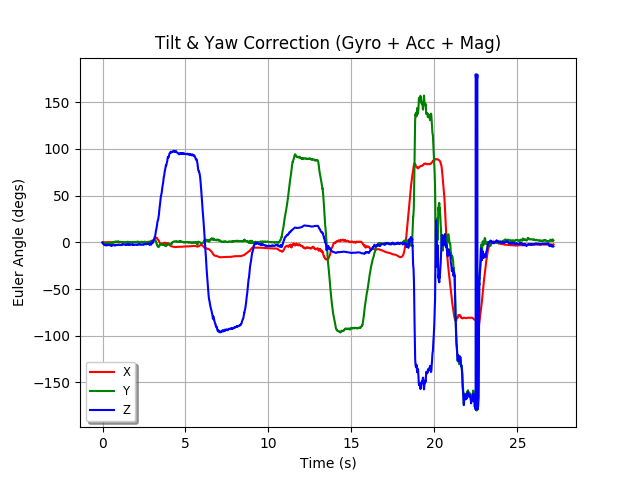
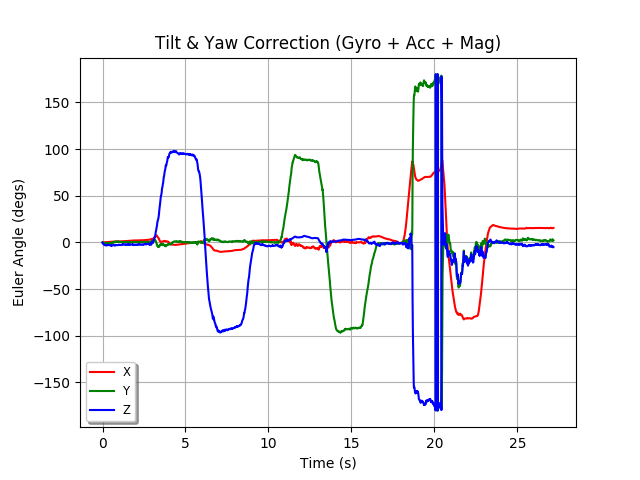
working visualisations, now just to finish the report

diff --git a/data_corrector.py b/data_corrector.py
@@ -3,8 +3,9 @@
 # Virtual Reality coursework 18/19
 
 ####################
-# tested on Python 3.7.x
+# tested on Python 3.7.2
 # ensure that the `IMUData.csv` file is located in the same directory as this script
+# to see the 3d visualisations, go down to the `main()` function and uncomment them (this may take a very long time to run though)
 ###################
 
 import csv
@@ -197,7 +198,7 @@ def gyro_acc_positioning(imu_data):
 def gyro_acc_mag_positioning(imu_data):
     """corrects for tilt and yaw using the accelerometer and magnetometer"""
     ALPHA_ACC = 0.1
-    ALPHA_YAW = 0.0001
+    ALPHA_YAW = 0.001
 
     print(">>> Tilt and Yaw Correction <<<")
     curr_pos = np.array([1,0,0,0], dtype=np.float32)
@@ -397,19 +398,20 @@ def animated_3d_plot(data):
 
     def update_position(point):
         x, y, z = qtrn_to_euler(point[1:5])
+        print("TIME:",point[0])
+        print(x,y,z)
         new_x, new_y, new_z = [0] + x_basis, [0] + y_basis, [0] + z_basis
         #print(new_x, new_y, new_z)
         axis_angles = [(x_basis, x), (y_basis, y), (z_basis, z)]
         for axis, angle in axis_angles:
-            new_x[0] = 0
-            new_y[0] = 0
-            new_z[0] = 0
+            # reset the real part of the quaternion, so we can get an accurate rotation again
+            new_x[0], new_y[0], new_z[0]  = 0, 0, 0
             point_qtrn = axis_angle_to_qtrn(axis, angle)
             #print(point_qtrn)
             new_x, new_y, new_z = list(map(lambda qtrn: qtrn_mult( qtrn_mult(point_qtrn, qtrn), qtrn_conj(point_qtrn)), [new_x, new_y, new_z]))
         # get just the coordinates from quaternion
         new_x, new_y, new_z = list(new_x[1:]), list(new_y[1:]), list(new_z[1:])
-        print(new_x, new_y, new_z)
+        #print(new_x, new_y, new_z)
         soa = np.array([origin + new_x, origin + new_y, origin + new_z])
         #print(soa)
         X, Y, Z, U, V, W = zip(*soa)
@@ -423,10 +425,9 @@ def animated_3d_plot(data):
         ax.quiver(X, Y, Z, U, V, W, colors=colors)
     
 
-    # # Creating the Animation object
+    # Creating the Animation object
     move_ani = animation.FuncAnimation(fig, update_position, frames=data,
-                                        interval=10)
-
+                                        interval=1)
     plt.show()
 
 
@@ -441,15 +442,16 @@ def main():
     imu_data = sanitize_imu_data(raw_data)
 
     gyro_data = gyro_dead_reckoning(np.array(imu_data, copy=True))
-    #save_gyro_fig("gyro_dead", "Dead-Reckoning (Gyro)", gyro_data)
-    #print(gyro_data)
-    animated_3d_plot(gyro_data)
+    save_gyro_fig("gyro_dead", "Dead-Reckoning (Gyro)", gyro_data)
+    #animated_3d_plot(gyro_data)
 
     acc_data = gyro_acc_positioning(np.array(imu_data, copy=True))
-    #save_gyro_fig("gyro_acc", "Tilt Correction (Gyro + Acc)", acc_data)
-    
+    save_gyro_fig("gyro_acc", "Tilt Correction (Gyro + Acc)", acc_data)
+    #animated_3d_plot(acc_data)
+
     mag_data = gyro_acc_mag_positioning(imu_data)
-    #save_gyro_fig("gyro_acc_mag", "Tilt & Yaw Correction (Gyro + Acc + Mag)", mag_data)
+    save_gyro_fig("gyro_acc_mag", "Tilt & Yaw Correction (Gyro + Acc + Mag)", mag_data)
+    #animated_3d_plot(mag_data)
 
 if __name__=="__main__":
     main()
